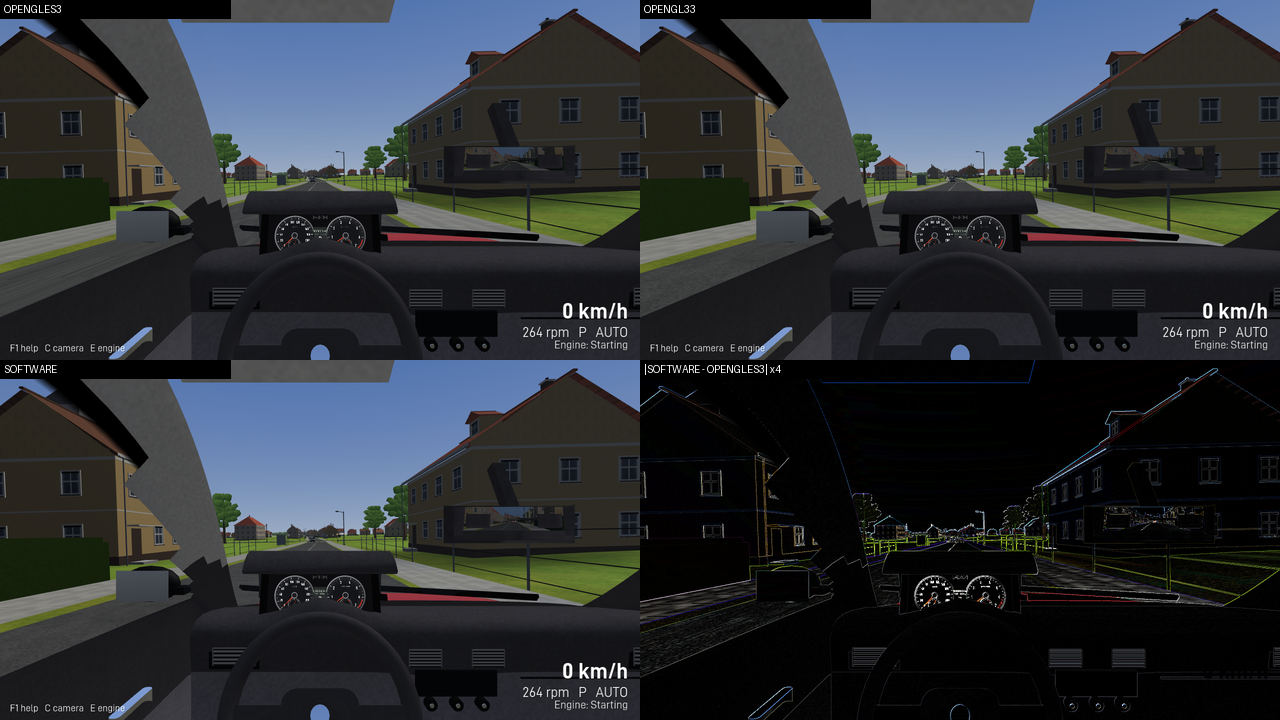
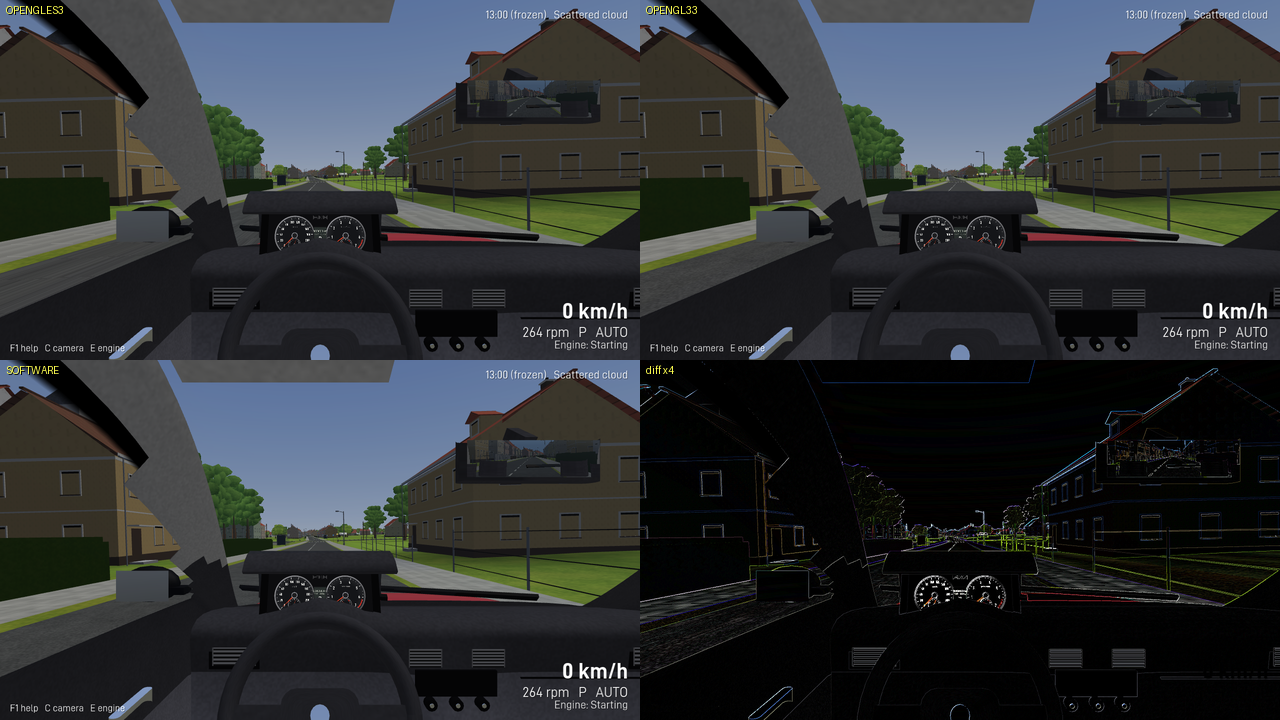
Record the Phase 12 audit and re-measure renderer conformance
A fresh clone of the Phase 12 HEAD builds every target, passes all five
ctest registrations and 178 tests, and both static checks and the map
validator are clean over the enlarged map; the audit binary starts in Nové
Město after sunset in the rain.

The renderer conformance record is re-measured on this map: all three
renderers submit the same 1253 draw calls and 1.24 M triangles for the same
frame and the image differences are unchanged in character. OPENGL33 used
to be a third faster than OPENGLES3 on this camera and is now level with
it, because the frame is dominated by the world and traffic passes. The
comparison sheets are regenerated.

ApplyWeatherSettings no longer drops the result of WeatherFromName: an
unreadable name in the save file or on the command line now says so and
falls back, instead of being silently ignored.

diff --git a/simulator/src/App/SimulatorGame.cpp b/simulator/src/App/SimulatorGame.cpp
@@ -500,10 +500,16 @@ namespace CarSim::App
 
     void SimulatorGame::ApplyWeatherSettings()
     {
+        // The save file wins over the default and the command line over both; an unreadable name
+        // falls back rather than failing the run, but it says so.
         Core::WeatherKind kind = Core::WeatherKind::FewClouds;
-        Core::WeatherFromName(save_.settings.weather, kind);
-        if (options_.weather) {
-            Core::WeatherFromName(*options_.weather, kind);
+        if (!save_.settings.weather.empty() && !Core::WeatherFromName(save_.settings.weather, kind)) {
+            std::cerr << "save: unknown weather '" << save_.settings.weather << "', using "
+                      << Core::ToString(kind) << "\n";
+        }
+        if (options_.weather && !Core::WeatherFromName(*options_.weather, kind)) {
+            std::cerr << "--weather: unknown weather '" << *options_.weather << "', using "
+                      << Core::ToString(kind) << "\n";
         }
         weather_.Snap(kind);   // the weather is already settled when the world appears
         ApplyWeatherToWorld();

diff --git a/docs/renderer-conformance.md b/docs/renderer-conformance.md
@@ -26,24 +26,30 @@ renderer variable differs. `ctest` runs against the `opengles3` build (178 tests
 ## Runs
 
 Both scenes use `--no-save --no-audio --lockstep --spawn square --auto-drive 3
---traffic-warmup 20 --benchmark` so the simulated state is identical on every renderer; the
-capture is the last frame (frame 40 exterior, frame 36 cockpit). Times are CPU draw submission
+--traffic-warmup 20 --time 13:00 --time-scale 0 --weather cloudy --benchmark` so the simulated
+state, the clock and the weather are identical on every renderer; the capture is the last frame
+(frame 40 exterior, frame 36 cockpit). Times are CPU draw submission
 per frame (llvmpipe rasterises on the CPU, so for the GL renderers this includes most of the
 rasterisation; the SOFTWARE renderer rasterises inside the draw calls).
 
 | Scene | Renderer | draw calls | triangles | draw submission | world | traffic | vehicle | mirror |
 | --- | --- | --- | --- | --- | --- | --- | --- | --- |
-| Town, chase camera | OPENGLES3 | 606 | 575k | 121 ms | 76 | 31 | 11 | - |
-| Town, chase camera | OPENGL33 | 606 | 575k | 97 ms | 60 | 24 | 9 | - |
-| Town, chase camera | SOFTWARE | 606 | 575k | 1805 ms | 1264 | 95 | 158 | - |
-| Town, cockpit + mirror + cluster | OPENGLES3 | 869 | 832k | 148 ms | 64 | 25 | 4 | 51 |
-| Town, cockpit + mirror + cluster | OPENGL33 | 869 | 832k | 157 ms | 72 | 28 | 4 | 50 |
-| Town, cockpit + mirror + cluster | SOFTWARE | 869 | 832k | 2906 ms | 1326 | 182 | 530 | 580 |
+| Town, chase camera | OPENGLES3 | 1253 | 1242k | 176 ms | 111 | 58 | 6 | - |
+| Town, chase camera | OPENGL33 | 1253 | 1242k | 174 ms | 110 | 56 | 6 | - |
+| Town, chase camera | SOFTWARE | 1253 | 1242k | 3571 ms | 2485 | 500 | 207 | - |
+| Town, cockpit + mirror + cluster | OPENGLES3 | 1299 | 1245k | 240 ms | 115 | 61 | 4 | 58 |
+| Town, cockpit + mirror + cluster | OPENGL33 | 1299 | 1245k | 237 ms | 114 | 61 | 5 | 56 |
+| Town, cockpit + mirror + cluster | SOFTWARE | 1299 | 1245k | 4793 ms | 2353 | 532 | 708 | 821 |
 
 Draw calls and triangle counts are identical across renderers for the same frame, which is the
-expected result of renderer-independent culling. The SOFTWARE renderer is about fifteen times
-slower than llvmpipe on this scene (single-threaded rasterisation, per-pixel lighting of 575k
+expected result of renderer-independent culling. The SOFTWARE renderer is about twenty times
+slower than llvmpipe on this scene (single-threaded rasterisation, per-pixel lighting of 1.24 M
 triangles) and is only useful for conformance checks and for machines without any GL driver.
+
+These numbers were re-measured on the Phase 12 map (6.4 x 7.6 km, five settlements); the Phase
+11 set on the smaller map read 606 draw calls and 575k triangles for the same camera, at 121 ms
+on OPENGLES3. OPENGL33 used to be a third faster than OPENGLES3 here and is now level with it:
+the frame is dominated by the world and traffic passes, which do the same work on both.
 
 ## Image differences
 
@@ -51,10 +57,10 @@ Pixel comparison of the same frame (max channel difference per pixel, 1280 x 720
 
 | Pair | mean difference | pixels differing by > 32 | > 96 |
 | --- | --- | --- | --- |
-| OPENGL33 vs OPENGLES3, town | 4.1 / 255 | 0.7 % | 0 % |
-| SOFTWARE vs OPENGLES3, town | 6.5 / 255 | 3.4 % | 0.09 % |
-| OPENGL33 vs OPENGLES3, cockpit | 0.4 / 255 | 0 % | 0 % |
-| SOFTWARE vs OPENGLES3, cockpit | 2.3 / 255 | 1.2 % | 0.13 % |
+| OPENGL33 vs OPENGLES3, town | 3.8 / 255 | 0.36 % | 0 % |
+| SOFTWARE vs OPENGLES3, town | 5.5 / 255 | 1.7 % | 0.08 % |
+| OPENGL33 vs OPENGLES3, cockpit | 0.45 / 255 | 0 % | 0 % |
+| SOFTWARE vs OPENGLES3, cockpit | 2.3 / 255 | 1.1 % | 0.11 % |
 | OPENGL33 vs OPENGLES3, instrument cluster target | 0.0 | 0 % | 0 % |
 | SOFTWARE vs OPENGLES3, instrument cluster target | 0.07 / 255 | 0 % | 0 % |
 

diff --git a/plan.md b/plan.md
@@ -1001,3 +1001,25 @@ test, and the static checks stay mandatory.
   twenty-five times. The cube map now follows three degrees of sun or fifteen per cent of cloud
   (only the start-up and the manual clock keys force it), and the cloud texture ten per cent of
   cover.
+
+### 25.2 Phase 12 audit (2026-09-15)
+
+Commit `12fe99256d01cfc48e1d205bac13f082961256d0` cloned fresh from `origin` and built against
+the dependency checkouts (Release, Ninja, OPENGLES3):
+
+- every target builds (738 steps, no errors; the remaining warnings are the pre-existing
+  `-Wdouble-promotion` ones in the audio synthesiser, the collision world and the benchmark
+  accumulators, plus two in CNA itself),
+- `ctest --preset opengles3` passes all five registrations in 48 s, `carsim_tests` runs 178
+  unit and scenario tests in 34 s,
+- `scripts/check_xna_only.py` (178 files, 544 XNA types) and `scripts/check_assets.py` are
+  clean, and `carsim-mapvalidate content/maps/lipova` reports no warnings over 624 buildings,
+  54 186 trees, 63 signs, 2 832 props and 150 parked cars,
+- the audit binary runs the new features: `--spawn mesto --time 21:45 --weather rain` starts in
+  Nové Město after sunset in the rain and captures a frame.
+
+The renderer conformance record was re-measured on this map: OPENGLES3, OPENGL33 and SOFTWARE
+submit the same 1 253 draw calls and 1.24 M triangles for the same frame, the image differences
+are unchanged in character (mean 3.8/255 between the two GL paths), and the comparison sheets in
+`docs/screenshots/renderers/` were regenerated. The curated screenshot set was re-shot and eight
+pictures added (dusk, night, headlamps, signals, overcast, rain and the three new settlements).
